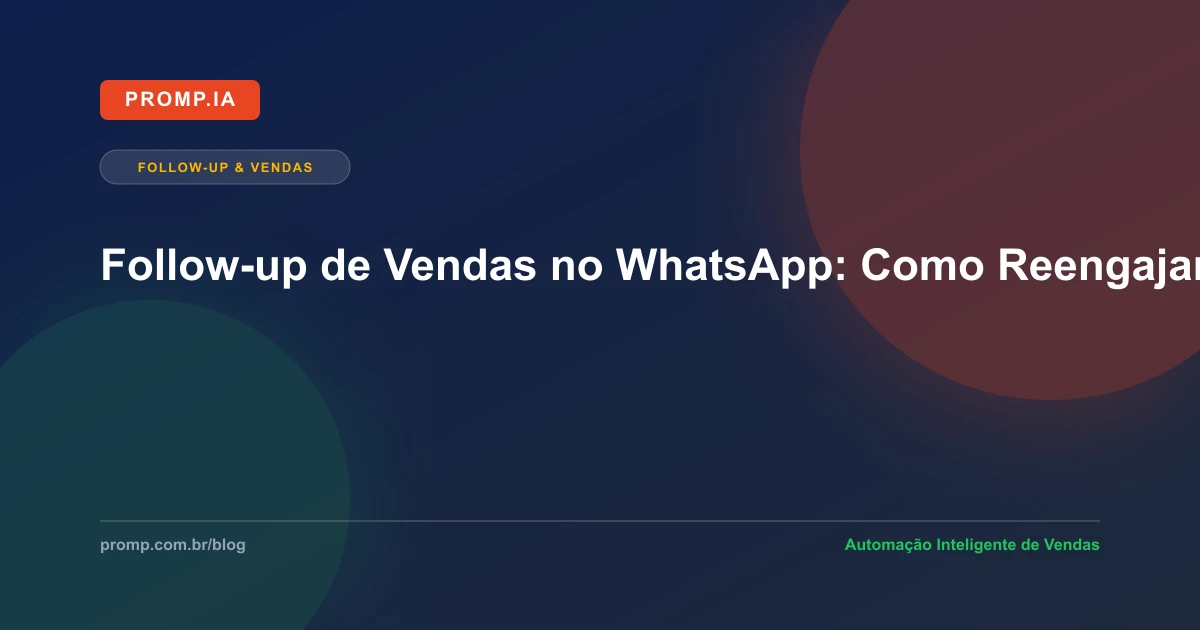
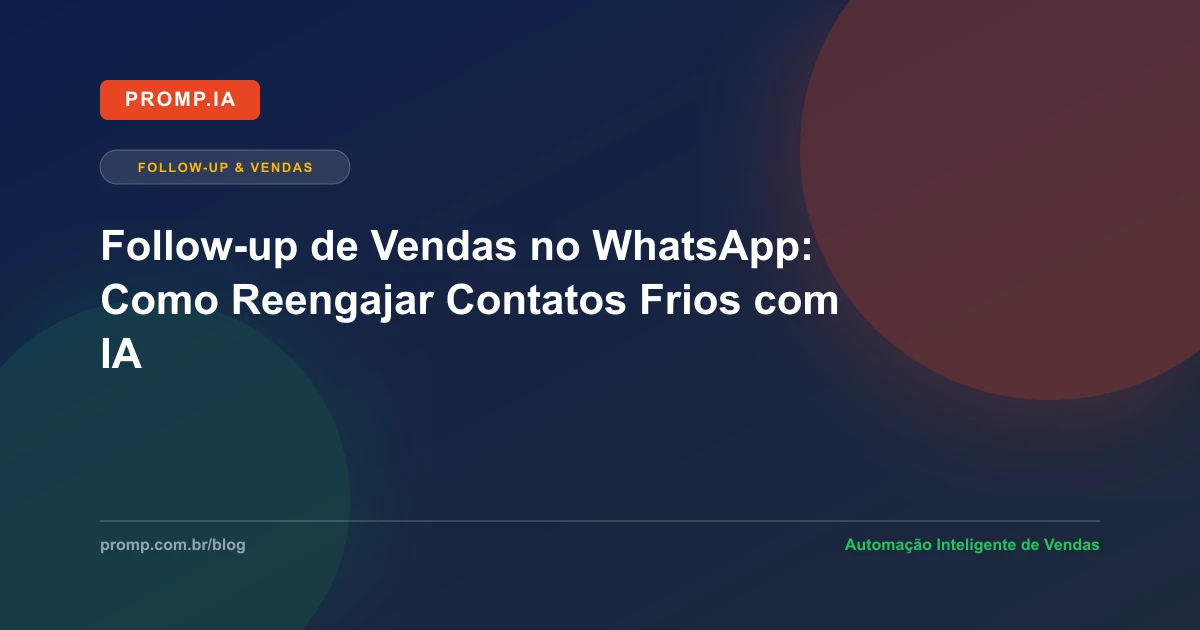
fix(blog): ensure all article covers are properly generated, served, and cached

Changed region(s): [[0.0617, 0.3619, 1.0, 0.5127], [0.0617, 0.5429, 0.1233, 0.6032]]

diff --git a/server/routes/images/[...pathname].get.ts b/server/routes/images/[...pathname].get.ts
@@ -1,0 +1,44 @@
+import { createReadStream, existsSync, statSync } from 'node:fs';
+import { resolve, normalize } from 'node:path';
+import { getRouterParam, setResponseHeader, sendStream, createError } from 'h3';
+
+const MIME_MAP: Record<string, string> = {
+  '.webp': 'image/webp',
+  '.jpg': 'image/jpeg',
+  '.jpeg': 'image/jpeg',
+  '.png': 'image/png',
+  '.svg': 'image/svg+xml',
+  '.gif': 'image/gif',
+  '.ico': 'image/x-icon',
+  '.avif': 'image/avif'
+};
+
+export default defineEventHandler((event) => {
+  const rawPathname = getRouterParam(event, 'pathname') || '';
+  // Previne directory traversal
+  const pathname = normalize(rawPathname).replace(/^(\.\.[\/\\])+/, '');
+
+  const possibleBaseDirs = [
+    resolve(process.cwd(), 'public/images'),
+    resolve(process.cwd(), '.output/public/images'),
+    '/var/www/site-promp/public/images',
+    '/var/www/site-promp/.output/public/images'
+  ];
+
+  for (const baseDir of possibleBaseDirs) {
+    const fullPath = resolve(baseDir, pathname);
+    if (existsSync(fullPath) && statSync(fullPath).isFile()) {
+      const ext = fullPath.substring(fullPath.lastIndexOf('.')).toLowerCase();
+      const mime = MIME_MAP[ext] || 'application/octet-stream';
+
+      setResponseHeader(event, 'Content-Type', mime);
+      setResponseHeader(event, 'Cache-Control', 'public, max-age=86400, stale-while-revalidate=604800');
+      return sendStream(event, createReadStream(fullPath));
+    }
+  }
+
+  throw createError({
+    statusCode: 404,
+    statusMessage: `Image not found: ${pathname}`
+  });
+});
